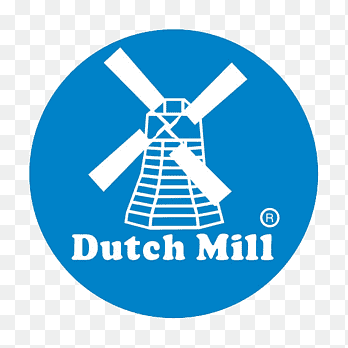
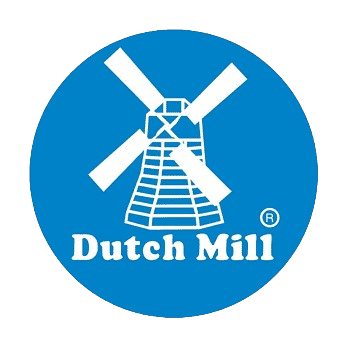
feat: improve project page layout with comprehensive client showcase (#14)
🎨 Layout Improvements:
- Changed to 5-column grid layout (แถวละ 5 รูป) using custom CSS class
- Added custom .col-lg-custom-5 class (20% width for 5 columns)
- More organized and balanced logo presentation

📝 Content Enhancements:
- Added Thai descriptions for EVERY category with meaningful context
- Hospital: 13 logos total (added all missing hospitals)
- Tech/Industry: Added Telecom-Asia (6 logos total)
- Hotels: Added Woodland (6 logos total)
- All categories now have professional Thai descriptions

🔄 Cache Busting:
- RPM.png?v=2 (updated logo with cache bust)
- Dutch_mill.png?v=2 (updated logo with cache bust)
- Forces browser to reload new images

🌐 Full Thai Translation:
- "สถาบันการเงิน" (Financial Institutions)
- "คอนโดมิเนียมและอพาร์ทเมนท์" (Condos & Apartments)
- "โรงแรมและที่พักอาศัย" (Hotels & Residences)
- "ศูนย์บันเทิงและการแสดง" (Entertainment Centers)
- "อาหารและเครื่องดื่ม" (Food & Beverage)
- "พิพิธภัณฑ์และแหล่งศิลปวัฒนธรรม" (Museums & Cultural Sites)
- "โครงการพระราชวังและอาคารสำคัญ" (Royal & Historic Buildings)
- "สถาบันการศึกษา" (Educational Institutions)
- "เทคโนโลยีและอุตสาหกรรม" (Technology & Industry)
- "สถานีบริการน้ำมันและพลังงาน" (Gas Stations & Energy)

✅ Complete Client Portfolio:
- All 42+ client logos properly categorized
- Hospital category complete with all logos from Logo/cutomer
- Professional descriptions explaining services for each industry
- Lazy loading maintained for performance

📱 Responsive Design:
[…]

diff --git a/project.html b/project.html
@@ -105,107 +105,128 @@
                 <!-- โรงพยาบาล -->
                 <div class="col-12 mb-5">
                     <h3 class="mb-4"><i class="fa fa-hospital text-primary me-3"></i>โรงพยาบาล</h3>
+                    <p class="text-muted mb-4">ระบบไฟฟ้า HVAC และสุขาภิบาลสำหรับสถานพยาบาลชั้นนำ รองรับมาตรฐานโรงพยาบาลระดับสากล</p>
                     <div class="row g-3">
-                        <div class="col-6 col-md-3 col-lg-2"><img src="img/clients/Hospital/BNH_H.svg" class="img-fluid client-logo" loading="lazy" alt="BNH Hospital"></div>
-                        <div class="col-6 col-md-3 col-lg-2"><img src="img/clients/Hospital/BangkokCM_H.svg" class="img-fluid client-logo" loading="lazy" alt="Bangkok Christian Hospital"></div>
-                        <div class="col-6 col-md-3 col-lg-2"><img src="img/clients/Hospital/BangkokRCSM_H.svg" class="img-fluid client-logo" loading="lazy" alt="Bangkok Hospital"></div>
-                        <div class="col-6 col-md-3 col-lg-2"><img src="img/clients/Hospital/BangkokRY_H.webp" class="img-fluid client-logo" loading="lazy" alt="Bangkok Hospital"></div>
-                        <div class="col-6 col-md-3 col-lg-2"><img src="img/clients/Hospital/BangkokT_H.svg" class="img-fluid client-logo" loading="lazy" alt="Bangkok Hospital"></div>
+                        <div class="col-6 col-md-4 col-lg-custom-5"><img src="img/clients/Hospital/BNH_H.svg" class="img-fluid client-logo" loading="lazy" alt="โรงพยาบาล BNH"></div>
+                        <div class="col-6 col-md-4 col-lg-custom-5"><img src="img/clients/Hospital/Bangkok_H.svg" class="img-fluid client-logo" loading="lazy" alt="โรงพยาบาลกรุงเทพ"></div>
+                        <div class="col-6 col-md-4 col-lg-custom-5"><img src="img/clients/Hospital/BangkokCM_H.svg" class="img-fluid client-logo" loading="lazy" alt="โรงพยาบาลกรุงเทพคริสเตียน"></div>
+                        <div class="col-6 col-md-4 col-lg-custom-5"><img src="img/clients/Hospital/BangkokRCSM_H.svg" class="img-fluid client-logo" loading="lazy" alt="โรงพยาบาลกรุงเทพ รังสิต"></div>
+                        <div class="col-6 col-md-4 col-lg-custom-5"><img src="img/clients/Hospital/BangkokT_H.svg" class="img-fluid client-logo" loading="lazy" alt="โรงพยาบาลกรุงเทพธนบุรี"></div>
+                        <div class="col-6 col-md-4 col-lg-custom-5"><img src="img/clients/Hospital/Bangpo_H.jpg" class="img-fluid client-logo" loading="lazy" alt="โรงพยาบาลบางปะอิน"></div>
+                        <div class="col-6 col-md-4 col-lg-custom-5"><img src="img/clients/Hospital/King_Chulalongkorn_Memorial_Hospital_Logo.svg" class="img-fluid client-logo" loading="lazy" alt="โรงพยาบาลจุฬาลงกรณ์"></div>
+                        <div class="col-6 col-md-4 col-lg-custom-5"><img src="img/clients/Hospital/Praram9_H.png" class="img-fluid client-logo" loading="lazy" alt="โรงพยาบาลพระราม 9"></div>
+                        <div class="col-6 col-md-4 col-lg-custom-5"><img src="img/clients/Hospital/PrinceSVNBH_H.png" class="img-fluid client-logo" loading="lazy" alt="โรงพยาบาลเจ้าพระยา"></div>
+                        <div class="col-6 col-md-4 col-lg-custom-5"><img src="img/clients/Hospital/RJRH_H.svg" class="img-fluid client-logo" loading="lazy" alt="โรงพยาบาลราชวิถี"></div>
+                        <div class="col-6 col-md-4 col-lg-custom-5"><img src="img/clients/Hospital/Siriraj_H.jpg" class="img-fluid client-logo" loading="lazy" alt="โรงพยาบาลศิริราช"></div>
+                        <div class="col-6 col-md-4 col-lg-custom-5"><img src="img/clients/Hospital/ThonburiBRM_H.svg" class="img-fluid client-logo" loading="lazy" alt="โรงพยาบาลธนบุรีบำรุงเมือง"></div>
+                        <div class="col-6 col-md-4 col-lg-custom-5"><img src="img/clients/Hospital/Thonburi_H.svg" class="img-fluid client-logo" loading="lazy" alt="โรงพยาบาลธนบุรี"></div>
                     </div>
                 </div>
 
                 <!-- ธนาคาร -->
                 <div class="col-12 mb-5">
-                    <h3 class="mb-4"><i class="fa fa-university text-primary me-3"></i>ธนาคาร</h3>
+                    <h3 class="mb-4"><i class="fa fa-university text-primary me-3"></i>สถาบันการเงิน</h3>
+                    <p class="text-muted mb-4">ระบบอาคารสำนักงานธนาคาร สาขา และ Data Center ด้วยมาตรฐานความปลอดภัยสูง</p>
                     <div class="row g-3">
-                        <div class="col-6 col-md-3 col-lg-2"><img src="img/clients/Bank/krungsri.png" class="img-fluid client-logo" loading="lazy" alt="Krungsri Bank"></div>
+                        <div class="col-6 col-md-4 col-lg-custom-5"><img src="img/clients/Bank/krungsri.png" class="img-fluid client-logo" loading="lazy" alt="ธนาคารกรุงศรีอยุธยา"></div>
                     </div>
                 </div>
 
                 <!-- คอนโดมิเนียม -->
                 <div class="col-12 mb-5">
-                    <h3 class="mb-4"><i class="fa fa-building text-primary me-3"></i>คอนโดมิเนียม</h3>
+                    <h3 class="mb-4"><i class="fa fa-building text-primary me-3"></i>คอนโดมิเนียมและอพาร์ทเมนท์</h3>
+                    <p class="text-muted mb-4">ระบบไฟฟ้า ปรับอากาศ และสุขาภิบาลสำหรับอาคารพักอาศัยสูง มุ่งเน้นความสะดวกสบายและประหยัดพลังงาน</p>
                     <div class="row g-3">
-                        <div class="col-6 col-md-3 col-lg-2"><img src="img/clients/Condo/BAANBANNAWAN.png" class="img-fluid client-logo" loading="lazy" alt="Baan Bannawan"></div>
-                        <div class="col-6 col-md-3 col-lg-2"><img src="img/clients/Condo/Oakwood.jpg" class="img-fluid client-logo" loading="lazy" alt="Oakwood"></div>
-                        <div class="col-6 col-md-3 col-lg-2"><img src="img/clients/Condo/TRAPEZO.jpg" class="img-fluid client-logo" loading="lazy" alt="Trapezo"></div>
+                        <div class="col-6 col-md-4 col-lg-custom-5"><img src="img/clients/Condo/BAANBANNAWAN.png" class="img-fluid client-logo" loading="lazy" alt="บ้านบรรณวรรณ คอนโดมิเนียม"></div>
+                        <div class="col-6 col-md-4 col-lg-custom-5"><img src="img/clients/Condo/Oakwood.jpg" class="img-fluid client-logo" loading="lazy" alt="Oakwood Residence"></div>
+                        <div class="col-6 col-md-4 col-lg-custom-5"><img src="img/clients/Condo/TRAPEZO.jpg" class="img-fluid client-logo" loading="lazy" alt="Trapezo Condominium"></div>
                     </div>
                 </div>
 
                 <!-- โรงแรมและที่พัก -->
                 <div class="col-12 mb-5">
-                    <h3 class="mb-4"><i class="fa fa-hotel text-primary me-3"></i>โรงแรมและที่พัก</h3>
+                    <h3 class="mb-4"><i class="fa fa-hotel text-primary me-3"></i>โรงแรมและที่พักอาศัย</h3>
+                    <p class="text-muted mb-4">ติดตั้งระบบครบวงจรสำหรับโรงแรม รีสอร์ท และเซอร์วิส อพาร์ทเมนท์ พร้อมระบบประหยัดพลังงาน</p>
                     <div class="row g-3">
-                        <div class="col-6 col-md-3 col-lg-2"><img src="img/clients/Resident/Best_western.png" class="img-fluid client-logo" loading="lazy" alt="Best Western"></div>
-                        <div class="col-6 col-md-3 col-lg-2"><img src="img/clients/Resident/Best_westernDM.png" class="img-fluid client-logo" loading="lazy" alt="Best Western"></div>
-                        <div class="col-6 col-md-3 col-lg-2"><img src="img/clients/Resident/Marriott Hotel.jpg" class="img-fluid client-logo" loading="lazy" alt="Marriott Hotel"></div>
-                        <div class="col-6 col-md-3 col-lg-2"><img src="img/clients/Resident/Bangna_Pride.jpg" class="img-fluid client-logo" loading="lazy" alt="Bangna Pride"></div>
-                        <div class="col-6 col-md-3 col-lg-2"><img src="img/clients/Resident/RPM.png" class="img-fluid client-logo" loading="lazy" alt="RPM"></div>
+                        <div class="col-6 col-md-4 col-lg-custom-5"><img src="img/clients/Resident/Best_western.png" class="img-fluid client-logo" loading="lazy" alt="Best Western Hotel"></div>
+                        <div class="col-6 col-md-4 col-lg-custom-5"><img src="img/clients/Resident/Best_westernDM.png" class="img-fluid client-logo" loading="lazy" alt="Best Western Plus Hotel"></div>
+                        <div class="col-6 col-md-4 col-lg-custom-5"><img src="img/clients/Resident/Marriott Hotel.jpg" class="img-fluid client-logo" loading="lazy" alt="Marriott Hotel"></div>
+                        <div class="col-6 col-md-4 col-lg-custom-5"><img src="img/clients/Resident/Bangna_Pride.jpg" class="img-fluid client-logo" loading="lazy" alt="Bangna Pride Residence"></div>
+                        <div class="col-6 col-md-4 col-lg-custom-5"><img src="img/clients/Resident/RPM.png?v=2" class="img-fluid client-logo" loading="lazy" alt="RPM Residence"></div>
+                        <div class="col-6 col-md-4 col-lg-custom-5"><img src="img/clients/Resident/Woodland.png" class="img-fluid client-logo" loading="lazy" alt="Woodland Resort"></div>
                     </div>
                 </div>
 
                 <!-- บันเทิง -->
                 <div class="col-12 mb-5">
-                    <h3 class="mb-4"><i class="fa fa-film text-primary me-3"></i>บันเทิง</h3>
+                    <h3 class="mb-4"><i class="fa fa-film text-primary me-3"></i>ศูนย์บันเทิงและการแสดง</h3>
+                    <p class="text-muted mb-4">ระบบไฟฟ้าและปรับอากาศสำหรับโรงละคร โรงภาพยนตร์ และสถานบันเทิง รองรับการแสดงระดับนานาชาติ</p>
                     <div class="row g-3">
-                        <div class="col-6 col-md-3 col-lg-2"><img src="img/clients/Entertainment/Tiffany.jpg" class="img-fluid client-logo" loading="lazy" alt="Tiffany Show"></div>
+                        <div class="col-6 col-md-4 col-lg-custom-5"><img src="img/clients/Entertainment/Tiffany.jpg" class="img-fluid client-logo" loading="lazy" alt="Tiffany's Show Pattaya"></div>
                     </div>
                 </div>
 
                 <!-- อาหาร -->
                 <div class="col-12 mb-5">
                     <h3 class="mb-4"><i class="fa fa-utensils text-primary me-3"></i>อาหารและเครื่องดื่ม</h3>
+                    <p class="text-muted mb-4">ระบบควบคุมอุณหภูมิ ระบายอากาศ และระบบไฟฟ้าสำหรับโรงงานผลิตอาหาร ร้านอาหาร ตามมาตรฐาน GMP และ HACCP</p>
                     <div class="row g-3">
-                        <div class="col-6 col-md-3 col-lg-2"><img src="img/clients/Food/Dutch_mill.png" class="img-fluid client-logo" loading="lazy" alt="Dutch Mill"></div>
-                        <div class="col-6 col-md-3 col-lg-2"><img src="img/clients/Food/Sahafarms.png" class="img-fluid client-logo" loading="lazy" alt="Saha Farms"></div>
-                        <div class="col-6 col-md-3 col-lg-2"><img src="img/clients/Restaurant/Thai_marche.jpg" class="img-fluid client-logo" loading="lazy" alt="Thai Marche"></div>
+                        <div class="col-6 col-md-4 col-lg-custom-5"><img src="img/clients/Food/Dutch_mill.png?v=2" class="img-fluid client-logo" loading="lazy" alt="Dutch Mill"></div>
+                        <div class="col-6 col-md-4 col-lg-custom-5"><img src="img/clients/Food/Sahafarms.png" class="img-fluid client-logo" loading="lazy" alt="Saha Farms"></div>
+                        <div class="col-6 col-md-4 col-lg-custom-5"><img src="img/clients/Restaurant/Thai_marche.jpg" class="img-fluid client-logo" loading="lazy" alt="Thai Marche Restaurant"></div>
                     </div>
                 </div>
 
                 <!-- พิพิธภัณฑ์และศิลปะ -->
                 <div class="col-12 mb-5">
-                    <h3 class="mb-4"><i class="fa fa-landmark text-primary me-3"></i>พิพิธภัณฑ์และศิลปะ</h3>
+                    <h3 class="mb-4"><i class="fa fa-landmark text-primary me-3"></i>พิพิธภัณฑ์และแหล่งศิลปวัฒนธรรม</h3>
+                    <p class="text-muted mb-4">ระบบควบคุมอุณหภูมิและความชื้นแบบพิเศษ สำหรับการจัดเก็บและจัดแสดงผลงานศิลปะและโบราณวัตถุ</p>
                     <div class="row g-3">
-                        <div class="col-6 col-md-3 col-lg-2"><img src="img/clients/Museum/MOCA.jpg" class="img-fluid client-logo" loading="lazy" alt="MOCA"></div>
-                        <div class="col-6 col-md-3 col-lg-2"><img src="img/clients/Museum/Baansukaowadee.jpg" class="img-fluid client-logo" loading="lazy" alt="Baan Sukaowadee"></div>
-                        <div class="col-6 col-md-3 col-lg-2"><img src="img/clients/Art/Koenitz.svg" class="img-fluid client-logo" loading="lazy" alt="Koenitz"></div>
+                        <div class="col-6 col-md-4 col-lg-custom-5"><img src="img/clients/Museum/MOCA.jpg" class="img-fluid client-logo" loading="lazy" alt="Museum of Contemporary Art"></div>
+                        <div class="col-6 col-md-4 col-lg-custom-5"><img src="img/clients/Museum/Baansukaowadee.jpg" class="img-fluid client-logo" loading="lazy" alt="บ้านสุขาขาวดี"></div>
+                        <div class="col-6 col-md-4 col-lg-custom-5"><img src="img/clients/Art/Koenitz.svg" class="img-fluid client-logo" loading="lazy" alt="Koenitz"></div>
                     </div>
                 </div>
 
                 <!-- ราชวงศ์ -->
                 <div class="col-12 mb-5">
-                    <h3 class="mb-4"><i class="fa fa-crown text-primary me-3"></i>โครงการพระราชวัง</h3>
+                    <h3 class="mb-4"><i class="fa fa-crown text-primary me-3"></i>โครงการพระราชวังและอาคารสำคัญ</h3>
+                    <p class="text-muted mb-4">ภูมิใจที่ได้รับความไว้วางใจในการติดตั้งระบบสำหรับอาคารสำคัญทางประวัติศาสตร์และพระราชพิธี</p>
                     <div class="row g-3">
-                        <div class="col-6 col-md-3 col-lg-2"><img src="img/clients/Royal/Ananta_Samakhom_Throne_Hall_.jpg" class="img-fluid client-logo" loading="lazy" alt="Ananta Samakhom Throne Hall"></div>
+                        <div class="col-6 col-md-4 col-lg-custom-5"><img src="img/clients/Royal/Ananta_Samakhom_Throne_Hall_.jpg" class="img-fluid client-logo" loading="lazy" alt="พระที่นั่งอนันตสมาคม"></div>
                     </div>
                 </div>
 
                 <!-- การศึกษา -->
                 <div class="col-12 mb-5">
-                    <h3 class="mb-4"><i class="fa fa-graduation-cap text-primary me-3"></i>การศึกษา</h3>
+                    <h3 class="mb-4"><i class="fa fa-graduation-cap text-primary me-3"></i>สถาบันการศึกษา</h3>
+                    <p class="text-muted mb-4">ระบบไฟฟ้า ปรับอากาศ และสุขาภิบาลสำหรับโรงเรียน มหาวิทยาลัย รองรับการเรียนการสอนยุคใหม่</p>
                     <div class="row g-3">
-                        <div class="col-6 col-md-3 col-lg-2"><img src="img/clients/School/PhraharuthaiNON.png" class="img-fluid client-logo" loading="lazy" alt="Phraharuthai School"></div>
-                        <div class="col-6 col-md-3 col-lg-2"><img src="img/clients/School/Rama.png" class="img-fluid client-logo" loading="lazy" alt="Rama School"></div>
+                        <div class="col-6 col-md-4 col-lg-custom-5"><img src="img/clients/School/PhraharuthaiNON.png" class="img-fluid client-logo" loading="lazy" alt="โรงเรียนพระหฤทัย"></div>
+                        <div class="col-6 col-md-4 col-lg-custom-5"><img src="img/clients/School/Rama.png" class="img-fluid client-logo" loading="lazy" alt="โรงเรียนพระราม"></div>
                     </div>
                 </div>
 
                 <!-- เทคโนโลยีและอุตสาหกรรม -->
                 <div class="col-12 mb-5">
                     <h3 class="mb-4"><i class="fa fa-industry text-primary me-3"></i>เทคโนโลยีและอุตสาหกรรม</h3>
+                    <p class="text-muted mb-4">ระบบครบวงจรสำหรับโรงงาน Clean Room สำนักงานบริษัทเทคโนโลยี พร้อมระบบโทรคมนาคม</p>
                     <div class="row g-3">
-                        <div class="col-6 col-md-3 col-lg-2"><img src="img/clients/Tech/EnerQ.png" class="img-fluid client-logo" loading="lazy" alt="EnerQ"></div>
-                        <div class="col-6 col-md-3 col-lg-2"><img src="img/clients/Tech/Pfizer.svg" class="img-fluid client-logo" loading="lazy" alt="Pfizer"></div>
-                        <div class="col-6 col-md-3 col-lg-2"><img src="img/clients/Tech/Ansell.svg" class="img-fluid client-logo" loading="lazy" alt="Ansell"></div>
-                        <div class="col-6 col-md-3 col-lg-2"><img src="img/clients/Tech/THS.svg" class="img-fluid client-logo" loading="lazy" alt="THS"></div>
-                        <div class="col-6 col-md-3 col-lg-2"><img src="img/clients/Tech/TOT.svg" class="img-fluid client-logo" loading="lazy" alt="TOT"></div>
+                        <div class="col-6 col-md-4 col-lg-custom-5"><img src="img/clients/Tech/EnerQ.png" class="img-fluid client-logo" loading="lazy" alt="EnerQ - พลังงานสะอาด"></div>
+                        <div class="col-6 col-md-4 col-lg-custom-5"><img src="img/clients/Tech/Pfizer.svg" class="img-fluid client-logo" loading="lazy" alt="Pfizer Pharmaceutical"></div>
+                        <div class="col-6 col-md-4 col-lg-custom-5"><img src="img/clients/Tech/Ansell.svg" class="img-fluid client-logo" loading="lazy" alt="Ansell"></div>
+                        <div class="col-6 col-md-4 col-lg-custom-5"><img src="img/clients/Tech/THS.svg" class="img-fluid client-logo" loading="lazy" alt="Thai Hospital Service"></div>
+                        <div class="col-6 col-md-4 col-lg-custom-5"><img src="img/clients/Tech/TOT.svg" class="img-fluid client-logo" loading="lazy" alt="TOT โทรคมนาคม"></div>
+                        <div class="col-6 col-md-4 col-lg-custom-5"><img src="img/clients/Tech/Telecom-Asia.png" class="img-fluid client-logo" loading="lazy" alt="Telecom Asia"></div>
                     </div>
                 </div>
 
                 <!-- สถานีน้ำมัน -->
                 <div class="col-12 mb-5">
-                    <h3 class="mb-4"><i class="fa fa-gas-pump text-primary me-3"></i>สถานีบริการน้ำมัน</h3>
+                    <h3 class="mb-4"><i class="fa fa-gas-pump text-primary me-3"></i>สถานีบริการน้ำมันและพลังงาน</h3>
+                    <p class="text-muted mb-4">ระบบไฟฟ้าสำหรับสถานีบริการน้ำมันและพลังงาน ตามมาตรฐานความปลอดภัยระดับสูง</p>
                     <div class="row g-3">
-                        <div class="col-6 col-md-3 col-lg-2"><img src="img/clients/OilGas station/Q8_logo.png" class="img-fluid client-logo" loading="lazy" alt="Q8"></div>
+                        <div class="col-6 col-md-4 col-lg-custom-5"><img src="img/clients/OilGas station/Q8_logo.png" class="img-fluid client-logo" loading="lazy" alt="Q8 Gas Station"></div>
                     </div>
                 </div>
             </div>

diff --git a/css/style.css b/css/style.css
@@ -1225,3 +1225,11 @@ i, .fa, .fab, .fas, .far, .fal, .bi {
 .btn-sm-square[href^="tel"]:hover {
     background-color: #2d8e47 !important;
 }
+
+/* Custom 5-column layout for client logos */
+@media (min-width: 992px) {
+    .col-lg-custom-5 {
+        flex: 0 0 auto;
+        width: 20%; /* 100% / 5 = 20% for 5 columns */
+    }
+}
